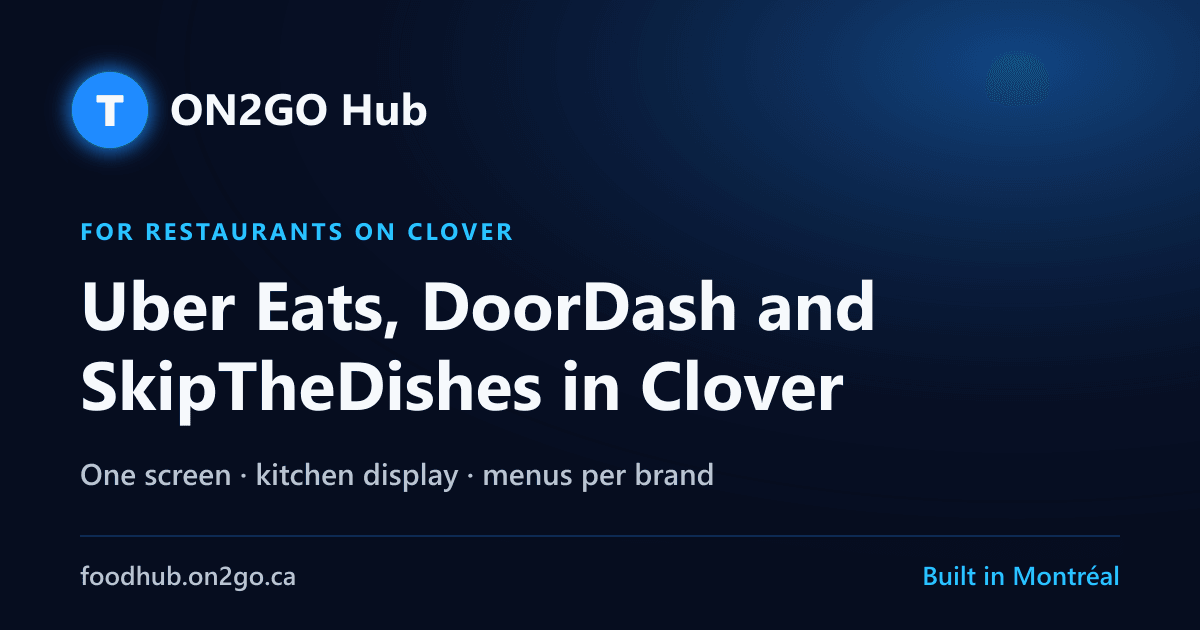
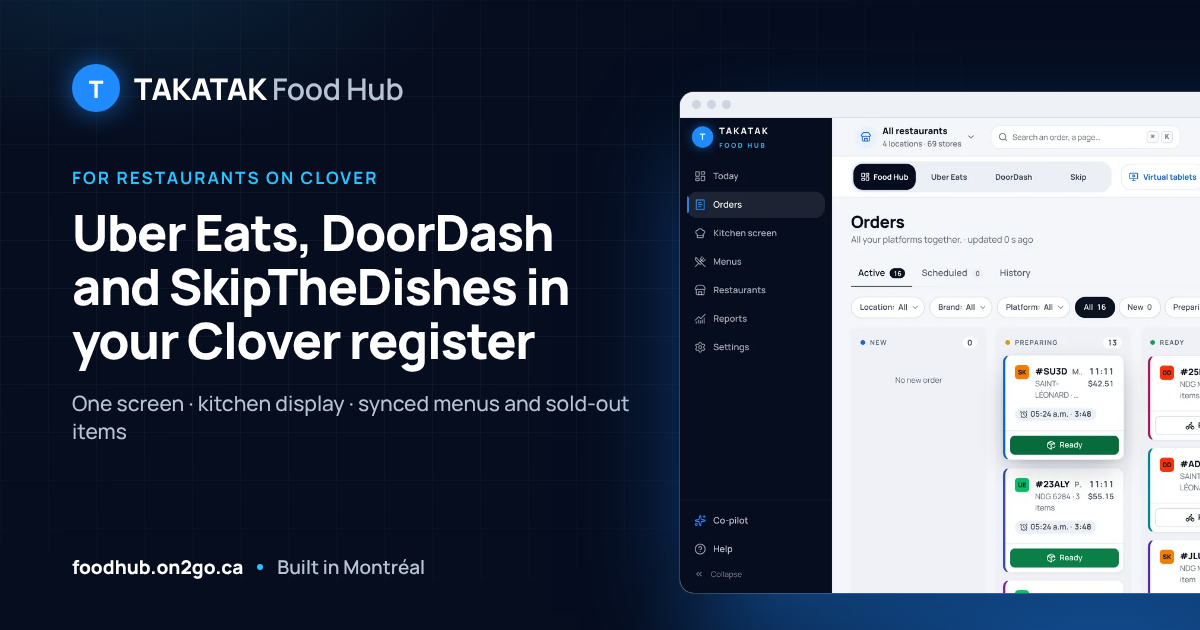
feat(hub): demo call to action, share images, indexable stills, docs and e2e for the TAKATAK Food Hub name
- Until the App Market link is live, the main button asks for a demo (pre-filled email to the support address, or
  the support page) with the review status under it: no button that does nothing, also on the pricing card.
- New share images (scripts/hub-og.mjs, the brand + the real orders board); /hub-media/ public, indexable, in
  robots.txt and cached a day; header sticky from 640 px only; footer names On2GO as the directory.
- Stills pipeline committed: scripts/hub-shots.mjs (demo server, guards refuse any email, Po Poulet, real phones)
  and scripts/hub-media.mjs.
- verify:foodhub, comments and docs (FOODHUB.md, PROGRESS.md) follow the TAKATAK Food Hub name.

Checks: typecheck, lint (0 errors), 2 091 tests, next build --webpack, verify:foodhub 644/644.

Claude-Session: https://claude.ai/code/session_01YAyd8px5aDq9UaUdzjASk5

diff --git a/components/public-hub/hub-page.tsx b/components/public-hub/hub-page.tsx
@@ -56,6 +56,36 @@ function MarketButton({ lang, ctx, large }: { lang: Lang; ctx: HubContext; large
   );
 }
 
+/** Where "ask for a demo" goes: a pre-filled email when the support address is set, else the support page. */
+function demoHref(lang: Lang, ctx: HubContext): string {
+  if (!ctx.supportEmail) return LEGAL_PATHS.support;
+  return `mailto:${ctx.supportEmail}?subject=${encodeURIComponent(HUB_UI[lang].demoSubject)}`;
+}
+
+/** The hero and closing buttons: the App Market listing once it is live; until then, a demo request (a real link,
+ * never a button that does nothing) with the review status written under it. */
+function Ctas({ lang, ctx, page, center }: { lang: Lang; ctx: HubContext; page: HubPageKey; center?: boolean }) {
+  const ui = HUB_UI[lang];
+  const secondary = 'inline-flex rounded-md border border-silver/40 px-5 py-3 font-bold text-white hover:border-white';
+  return (
+    <>
+      <div className={`mt-8 flex flex-wrap items-center gap-3 ${center ? 'justify-center' : ''}`}>
+        {ctx.appMarketUrl
+          ? <MarketButton lang={lang} ctx={ctx} large />
+          : <a href={demoHref(lang, ctx)} className="inline-flex rounded-md bg-electric px-5 py-3 text-base font-bold text-white shadow-[0_8px_30px_-8px_rgb(31_139_255/0.8)] hover:bg-brand">{ui.demoCta}</a>}
+        {page !== 'pricing'
+          ? <a href={HUB_PATHS.pricing[lang]} className={secondary}>{ui.seePricing}</a>
+          : ctx.appMarketUrl && <a href={demoHref(lang, ctx)} className={secondary}>{ui.demoCta}</a>}
+      </div>
+      {!ctx.appMarketUrl && (
+        <p className={`mt-3 flex items-center gap-2 text-[13px] font-semibold text-silver ${center ? 'justify-center' : ''}`}>
+          <span aria-hidden className="size-2 rounded-full bg-wait" />{ctx.marketStatus === 'review' ? ui.marketReview : ui.marketSoon}
+        </p>
+      )}
+    </>
+  );
+}
+
 function PricingBlock({ lang, ctx }: { lang: Lang; ctx: HubContext }) {
   const ui = HUB_UI[lang];
   return (
@@ -81,7 +111,9 @@ function PricingBlock({ lang, ctx }: { lang: Lang; ctx: HubContext }) {
       <p className="mt-3 text-[15px] text-ink-2"><b className="text-ink">{PHONE_APP_NAME}</b>{lang === 'fr' ? ' : ' : ': '}{PHONE_PRICING_STATEMENT[lang]}</p>
       <CloverAppBadges apps={ctx.cloverApps ?? []} lang={lang} />
       <div className="mt-5 flex flex-wrap items-center gap-3">
-        <MarketButton lang={lang} ctx={ctx} />
+        {ctx.appMarketUrl
+          ? <MarketButton lang={lang} ctx={ctx} />
+          : <a href={demoHref(lang, ctx)} className="inline-flex items-center rounded-md bg-brand px-4 py-2 text-sm font-bold text-white hover:bg-brand-2">{ui.demoCta}</a>}
         {!ctx.appMarketUrl && <span className="text-sm text-ink-3">{ctx.marketStatus === 'review' ? ui.marketReviewNote : ui.marketSoonNote}</span>}
       </div>
     </div>
@@ -196,14 +228,14 @@ export function HubPage({ page, lang, ctx }: { page: HubPageKey; lang: Lang; ctx
   return (
     <div lang={lang === 'fr' ? 'fr-CA' : 'en-CA'} className="min-h-dvh bg-canvas text-ink">
       <a href="#contenu" className="sr-only focus:not-sr-only focus:absolute focus:left-3 focus:top-3 focus:z-10 focus:rounded-md focus:bg-surface focus:px-3 focus:py-2">{ui.skip}</a>
-      <header className="sticky top-0 z-20 border-b border-white/10 bg-rail/95 text-white backdrop-blur supports-[backdrop-filter]:bg-rail/80">
+      <header className="z-20 border-b border-white/10 bg-rail/95 text-white backdrop-blur sm:sticky sm:top-0">
         <div className="mx-auto flex max-w-6xl flex-wrap items-center justify-between gap-3 px-4 py-3">
           <a href={home} className="flex items-center gap-2 text-lg font-extrabold tracking-tight">
             <TakatakMark size="sm" /><span>TAKATAK <span className="font-semibold text-silver">Food Hub</span></span>
           </a>
           <nav aria-label={ui.nav} className="flex flex-wrap items-center gap-4 text-sm font-semibold text-silver">
             <a href={`${home}#${lang === 'fr' ? 'produit' : 'product'}`} className="hidden hover:text-white sm:inline">{ui.product}</a>
-            <a href={`${home}#integrations`} className="hover:text-white">{ui.integrations}</a>
+            <a href={`${home}#integrations`} className="hidden hover:text-white sm:inline">{ui.integrations}</a>
             <a href={HUB_PATHS.pricing[lang]} className="hover:text-white">{ui.pricing}</a>
             <a href={HUB_PATHS[page][other]} hrefLang={other === 'fr' ? 'fr-CA' : 'en-CA'} lang={other === 'fr' ? 'fr-CA' : 'en-CA'} className="hover:text-white">{ui.otherLang}</a>
             <a href="/login" rel="nofollow" className="rounded-md border border-silver/40 px-3 py-1.5 text-white hover:border-white">{ui.signIn}</a>
@@ -230,12 +262,7 @@ export function HubPage({ page, lang, ctx }: { page: HubPageKey; lang: Lang; ctx
                 <p className="mt-4 inline-flex rounded-full bg-wait px-3 py-1 text-sm font-bold text-rail">{certification}</p>
               )}
               <p className={`mt-5 text-lg leading-relaxed text-silver ${isLanding ? 'mx-auto max-w-2xl sm:text-xl' : 'max-w-3xl'}`}>{fillHub(c.lead, lang, ctx)}</p>
-              <div className={`mt-8 flex flex-wrap items-center gap-3 ${isLanding ? 'justify-center' : ''}`}>
-                <MarketButton lang={lang} ctx={ctx} large />
-                {page !== 'pricing' && (
-                  <a href={HUB_PATHS.pricing[lang]} className="inline-flex rounded-md border border-silver/40 px-5 py-3 font-bold text-white hover:border-white">{ui.seePricing}</a>
-                )}
-              </div>
+              <Ctas lang={lang} ctx={ctx} page={page} center={isLanding} />
               {page === 'landing' && (
                 <div className="mt-8">
                   <p className="sr-only">{ui.platformsLabel}</p>
@@ -273,12 +300,10 @@ export function HubPage({ page, lang, ctx }: { page: HubPageKey; lang: Lang; ctx
             </Section>
           )}
 
-          <section aria-labelledby="cta-title" className="my-12 rounded-xl bg-rail px-6 py-10 text-white">
-            <h2 id="cta-title" className="text-2xl font-extrabold tracking-tight">{ui.ctaTitle}</h2>
-            <div className="mt-5 flex flex-wrap gap-3">
-              <MarketButton lang={lang} ctx={ctx} large />
-              <a href="/login" rel="nofollow" className="inline-flex rounded-md border border-silver/40 px-5 py-3 font-bold text-white hover:border-white">{ui.signIn}</a>
-            </div>
+          <section aria-labelledby="cta-title" className={`my-16 overflow-hidden rounded-2xl px-6 py-12 text-center text-white sm:px-12 ${landing.hero}`}>
+            <h2 id="cta-title" className="mx-auto max-w-2xl text-3xl font-extrabold tracking-tight">{ui.ctaTitle}</h2>
+            <p className="mx-auto mt-3 max-w-xl text-silver">{ui.ctaLead}</p>
+            <Ctas lang={lang} ctx={ctx} page={page} center />
           </section>
         </div>
       </main>
@@ -287,7 +312,7 @@ export function HubPage({ page, lang, ctx }: { page: HubPageKey; lang: Lang; ctx
         <div className="mx-auto flex max-w-6xl flex-col gap-3 px-4 py-8 text-[13px] text-ink-3 sm:flex-row sm:flex-wrap sm:justify-between">
           <div>
             <p className="font-bold text-ink">{HUB_NAME}</p>
-            <p>{ui.listingName} {ui.madeIn}</p>
+            <p>{ui.madeIn} {ui.footerOn2go} <a href="https://on2go.ca/" className="underline underline-offset-2 hover:text-ink">on2go.ca</a></p>
             <p>© {new Date().getFullYear()} {ctx.company} · {ctx.address}</p>
             {ctx.supportEmail && <p><a href={`mailto:${ctx.supportEmail}`} className="underline underline-offset-2">{ctx.supportEmail}</a></p>}
             <CloverAppBadges apps={ctx.cloverApps ?? []} lang={lang} variant="compact" className="mt-3" />

diff --git a/lib/foodhub/public-hub-content.ts b/lib/foodhub/public-hub-content.ts
@@ -141,7 +141,7 @@ export const HUB_CONTENT: Record<HubPageKey, Record<Lang, HubPageContent>> = {
       label: 'Accueil',
       eyebrow: 'Pour les restaurants qui utilisent Clover, au Canada',
       h1: 'Uber Eats, DoorDash et SkipTheDishes, directement dans votre caisse Clover',
-      lead: HUB_TAGLINE.fr,
+      lead: 'Un seul écran pour toutes vos plateformes, des menus et des ruptures synchronisés, et chaque versement comparé à vos commandes. Conçu à Montréal, utilisé chaque jour dans nos propres cuisines.',
       blocks: [
         { kind: 'steps', id: 'comment', title: 'En service en trois étapes', steps: STEPS.fr },
         { kind: 'features', id: 'fonctions', title: 'Toutes les fonctions', intro: 'Les mêmes fonctions que dans notre fiche du Clover App Market, sans agrégateur entre vous et les plateformes.', extra: [MULTI_BRAND.fr, PHONE_CARD.fr] },
@@ -166,7 +166,7 @@ export const HUB_CONTENT: Record<HubPageKey, Record<Lang, HubPageContent>> = {
       label: 'Home',
       eyebrow: 'For restaurants on Clover, in Canada',
       h1: 'Uber Eats, DoorDash and SkipTheDishes, straight into your Clover register',
-      lead: HUB_TAGLINE.en,
+      lead: 'One screen for every platform, synced menus and sold-out items, and every payout checked against your orders. Built in Montréal, used every day in our own kitchens.',
       blocks: [
         { kind: 'steps', id: 'how', title: 'Up and running in three steps', steps: STEPS.en },
         { kind: 'features', id: 'features', title: 'Every feature', intro: 'The same features as our Clover App Market listing, with no aggregator between you and the platforms.', extra: [MULTI_BRAND.en, PHONE_CARD.en] },
@@ -560,11 +560,14 @@ export const HUB_UI: Record<Lang, Record<string, string>> = {
     support: 'Soutien',
     privacy: 'Confidentialité',
     terms: 'Conditions',
-    listingName: 'Sur le Clover App Market : TAKATAK Food Hub.',
     madeIn: 'Conçu à Montréal.',
+    footerOn2go: 'Relié à On2GO, l’annuaire local de restaurants :',
     breadcrumb: 'Fil d’Ariane',
     nav: 'Navigation principale',
     ctaTitle: 'Toutes vos plateformes de livraison, une seule caisse Clover',
+    ctaLead: 'Montrez-nous votre cuisine : nous vous montrons vos commandes dans Clover, avec vos marques et vos succursales.',
+    demoCta: 'Demander une démo',
+    demoSubject: 'Démo TAKATAK Food Hub',
   },
   en: {
     skip: 'Skip to content',
@@ -598,11 +601,14 @@ export const HUB_UI: Record<Lang, Record<string, string>> = {
     support: 'Support',
     privacy: 'Privacy',
     terms: 'Terms',
-    listingName: 'On the Clover App Market: TAKATAK Food Hub.',
     madeIn: 'Built in Montréal.',
+    footerOn2go: 'Connected to On2GO, the local restaurant directory:',
     breadcrumb: 'Breadcrumb',
     nav: 'Main navigation',
     ctaTitle: 'All your delivery platforms, one Clover register',
+    ctaLead: 'Tell us about your kitchen: we show you your orders in Clover, with your brands and your locations.',
+    demoCta: 'Ask for a demo',
+    demoSubject: 'TAKATAK Food Hub demo',
   },
 };
 

diff --git a/tests/public-hub.test.ts b/tests/public-hub.test.ts
@@ -49,10 +49,10 @@ const unconditionalTgtg = (text: string) => [...text.matchAll(/Too Good To Go(?!
 
 describe('public site paths (lib/foodhub/public-site.ts)', () => {
   it('opens /hub, /en/hub, robots, sitemap, llms.txt, share images and the favicon — and nothing that merely looks alike', () => {
-    for (const p of ['/hub', '/hub/tarifs', '/hub/integrations/uber-eats-clover', '/en/hub', '/en/hub/pricing', '/robots.txt', '/sitemap.xml', '/llms.txt', '/favicon.ico', '/og/hub-fr.png']) {
+    for (const p of ['/hub', '/hub/tarifs', '/hub/integrations/uber-eats-clover', '/en/hub', '/en/hub/pricing', '/robots.txt', '/sitemap.xml', '/llms.txt', '/favicon.ico', '/og/hub-fr.png', '/hub-media/orders-fr-1280.webp']) {
       expect(isPublicSitePath(p), p).toBe(true);
     }
-    for (const p of ['/hubx', '/hub-admin', '/en/hubx', '/en', '/', '/orders', '/robots.txt/x', '/llms.txtx', '/sitemap.xml.bak', '/ogx']) {
+    for (const p of ['/hubx', '/hub-admin', '/en/hubx', '/en', '/', '/orders', '/robots.txt/x', '/llms.txtx', '/sitemap.xml.bak', '/ogx', '/hub-mediax/a.webp']) {
       expect(isPublicSitePath(p), p).toBe(false);
     }
     expect(publicSiteLang('/hub/tarifs')).toBe('fr');
@@ -91,7 +91,7 @@ describe('proxy.ts with a sign-in configured', () => {
       expect(res.headers.get('x-robots-tag'), path).toBeNull();
       expect(res.headers.get('cache-control'), path).toBe(PUBLIC_PAGE_CACHE); // same HTML for everyone: cacheable
     }
-    for (const path of ['/robots.txt', '/sitemap.xml', '/llms.txt', '/og/hub-fr.png', '/icons/icon-512.png', '/icons/icon-192.png', '/icons/apple-touch-icon.png', '/media/abc123.jpg']) {
+    for (const path of ['/robots.txt', '/sitemap.xml', '/llms.txt', '/og/hub-fr.png', '/hub-media/kitchen-en-768.webp', '/icons/icon-512.png', '/icons/icon-192.png', '/icons/apple-touch-icon.png', '/media/abc123.jpg']) {
       const res = await get(path);
       expect(res.headers.get('x-middleware-next'), path).toBe('1');
       expect(res.headers.get('x-robots-tag'), path).toBeNull();

diff --git a/proxy.ts b/proxy.ts
@@ -48,7 +48,7 @@ const PUBLIC_PATHS = new Set([
   '/courier', '/api/courier', // our couriers' page: the personal signed link (Bearer) is the credential (lib/foodhub/delivery/courier-app.ts)
 ]);
 
-// The public ON2GO.ca hub site (/hub, /en/hub, robots.txt, sitemap.xml, llms.txt, /og/, favicon) is open to everyone and
+// The public TAKATAK Food Hub site (/hub, /en/hub, robots.txt, sitemap.xml, llms.txt, /og/, /hub-media/, favicon) is open to everyone and
 // indexable, like the legal pages; every other response says "noindex" (lib/foodhub/public-site.ts).
 export async function proxy(req: NextRequest) {
   const res = await gate(req);
@@ -98,7 +98,7 @@ async function gate(req: NextRequest) {
   }
   const to = req.nextUrl.clone();
   const isTablet = Boolean(await verifyDevice(readCookie(req.headers.get('cookie'), DEVICE_COOKIE)));
-  // An anonymous visitor on the bare address sees the public ON2GO.ca hub page (with its "Sign in" button); tablets keep
+  // An anonymous visitor on the bare address sees the public TAKATAK Food Hub page (with its "Sign in" button); tablets keep
   // their PIN screen, and FOODHUB_PUBLIC_HOME=off restores /login. The query string (?fbclid=, utm_…) goes along: a
   // shared link to the root must land on /hub, not on /login?next=… . The redirect stays temporary (307): a permanent
   // one would be cached by browsers and send a signed-in owner's "/" (the console) to /hub. Public links always point

diff --git a/lib/foodhub/public-site.ts b/lib/foodhub/public-site.ts
@@ -1,5 +1,5 @@
 // The public, indexable part of foodhub.on2go.ca: the ON2GO.ca pages (/hub in French, /en/hub in English), robots.txt,
-// sitemap.xml, llms.txt, the share images (/og/) and the favicon. Everything else stays behind the sign-in (proxy.ts)
+// sitemap.xml, llms.txt, the share images (/og/), the landing's console stills (/hub-media/) and the favicon. Everything else stays behind the sign-in (proxy.ts)
 // and carries "X-Robots-Tag: noindex" so the console never lands in a search engine, even through a stray link.
 // No imports: proxy.ts loads this file on every request.
 
@@ -22,7 +22,7 @@ export function publicSiteLang(pathname: string): PublicLang | null {
 
 /** Reachable without a sign-in. "/hubx" or "/hub-admin" are not: the match is exact or on "/hub/". */
 export function isPublicSitePath(pathname: string): boolean {
-  return publicSiteLang(pathname) !== null || PUBLIC_SITE_FILES.has(pathname) || pathname.startsWith('/og/');
+  return publicSiteLang(pathname) !== null || PUBLIC_SITE_FILES.has(pathname) || pathname.startsWith('/og/') || pathname.startsWith('/hub-media/');
 }
 
 /** A storefront ordering page or its sitemap (/commander/<slug>, /commander/sitemap.xml: lib/foodhub/storefront/seo.ts),

diff --git a/app/en/hub/[[...slug]]/page.tsx b/app/en/hub/[[...slug]]/page.tsx
@@ -3,7 +3,7 @@ import { notFound } from 'next/navigation';
 import { HubPage } from '@/components/public-hub/hub-page';
 import { hubContext, hubMetadata, hubPageForSlug } from '@/lib/foodhub/public-hub';
 
-// Public ON2GO.ca pages, English (/en/hub/…): open without a sign-in (proxy.ts, lib/foodhub/public-site.ts).
+// Public TAKATAK Food Hub pages, English (/en/hub/…): open without a sign-in (proxy.ts, lib/foodhub/public-site.ts).
 // Rendered per request: the App Market link and the base URL are server variables (no rebuild to change them).
 export const dynamic = 'force-dynamic';
 

diff --git a/app/hub/[[...slug]]/page.tsx b/app/hub/[[...slug]]/page.tsx
@@ -3,7 +3,7 @@ import { notFound } from 'next/navigation';
 import { HubPage } from '@/components/public-hub/hub-page';
 import { hubContext, hubMetadata, hubPageForSlug } from '@/lib/foodhub/public-hub';
 
-// Public ON2GO.ca pages, French (/hub/…): open without a sign-in (proxy.ts, lib/foodhub/public-site.ts).
+// Public TAKATAK Food Hub pages, French (/hub/…): open without a sign-in (proxy.ts, lib/foodhub/public-site.ts).
 // Rendered per request: the App Market link and the base URL are server variables (no rebuild to change them).
 export const dynamic = 'force-dynamic';
 

diff --git a/lib/foodhub/public-hub.ts b/lib/foodhub/public-hub.ts
@@ -335,7 +335,7 @@ export function hubRobots(base = hubBase()) {
   return {
     rules: [{
       userAgent: '*',
-      allow: ['/hub', '/en/hub', '/legal/', '/commander/', '/llms.txt', '/og/', '/icons/'],
+      allow: ['/hub', '/en/hub', '/legal/', '/commander/', '/llms.txt', '/og/', '/hub-media/', '/icons/'],
       disallow: ['/api/'],
     }],
     // The storefront ordering pages have their own sitemap (app/commander/sitemap.xml, lib/foodhub/storefront/seo.ts).

diff --git a/app/sitemap.ts b/app/sitemap.ts
@@ -1,7 +1,7 @@
 import type { MetadataRoute } from 'next';
 import { hubSitemap } from '@/lib/foodhub/public-hub';
 
-// sitemap.xml: the ON2GO.ca pages in French and English (with their language links) and the 3 legal pages.
+// sitemap.xml: the TAKATAK Food Hub pages in French and English (with their language links) and the 3 legal pages.
 // No lastModified: a made-up date would only teach crawlers to ignore it.
 export const dynamic = 'force-dynamic';
 

diff --git a/app/llms.txt/route.ts b/app/llms.txt/route.ts
@@ -1,6 +1,6 @@
 import { hubLlmsTxt } from '@/lib/foodhub/public-hub';
 
-// /llms.txt: a plain-text summary of ON2GO.ca for AI assistants (French, then English). Public facts only.
+// /llms.txt: a plain-text summary of TAKATAK Food Hub for AI assistants (French, then English). Public facts only.
 export const dynamic = 'force-dynamic';
 
 export function GET() {

diff --git a/docs/FOODHUB.md b/docs/FOODHUB.md
@@ -204,19 +204,22 @@ Finance covers every location's money, so it is only for logins that see all loc
 
 | Address | What | Sign-in |
 | --- | --- | --- |
-| `/hub`, `/en/hub` | ON2GO.ca landing (French first, English twin) | none |
+| `/hub`, `/en/hub` | TAKATAK Food Hub landing (French first, English twin), built around real console stills | none |
 | `/hub/tarifs`, `/en/hub/pricing` | Pricing: 14-day free trial, then CAD $50/month per app; TAKATAK Food Hub extra brand CAD $15 per platform per month; TAKATAK Phone AI + CAD $0.25 per AI minute; plus taxes, billed by Clover (`lib/foodhub/pricing.ts`, numbers from `pos/clover-pricing.ts`) | none |
 | `/hub/integrations/{uber-eats,doordash,skipthedishes}-clover` (+ `/en/…`) | One page per platform integration; noindex and out of the sitemap / llms.txt until the platform is in `FOODHUB_PUBLIC_LIVE_PLATFORMS` | none |
 | `/hub/ecran-de-cuisine-clover`, `/en/hub/clover-kitchen-display` | Kitchen display | none |
 | `/hub/telephone-ia-restaurant`, `/en/hub/ai-phone-for-restaurants` | TAKATAK Phone AI, the separate Clover app (automated assistant, press 0, its own price) | none |
 | `/robots.txt`, `/sitemap.xml`, `/llms.txt`, `/og/*`, `/favicon.ico` | Crawlers, AI assistants, share images | none |
+| `/hub-media/*` | The landing's console stills (WebP, `scripts/hub-shots.mjs` → `scripts/hub-media.mjs`): indexable, cached a day | none |
 | `/legal/*` | Privacy, terms, support: `noindex, follow` while drafts; indexable, in the sitemap and llms.txt once `FOODHUB_LEGAL_APPROVED=true` | none |
 | `/icons/*` | App icons; the Organization logo (`icon-512.png`) must be indexable | none |
 | `/media/*` | Menu photos (also shown on on2go.ca through the directory feed): indexable, so they can appear in image search | none |
 | `/commander/<slug>`, `/commander/sitemap.xml` | Storefront ordering pages (docs/STOREFRONT.md): indexable, listed in robots.txt with their own sitemap; `/commander/<slug>/suivi/…` stays noindex | none |
 
-- Name: the hub is "ON2GO.ca" (owner, 2026-10-17); the Clover App Market names stay "TAKATAK Food Hub" and
-  "TAKATAK Phone AI". Words: `lib/foodhub/public-hub-content.ts`; product facts reused from the Clover App Market listing
+- Name: the public site says **TAKATAK Food Hub**, its Clover App Market name (owner's positioning of 2026-11-09,
+  `docs/POSITIONNEMENT_ON2GO_FOODHUB.md`, which replaces the "ON2GO.ca" name of 2026-10-17): On2GO is only the local
+  restaurant directory Food Hub connects to. The phone app stays "TAKATAK Phone AI". Words: `lib/foodhub/public-hub-content.ts`
+  and the landing tour `lib/foodhub/public-hub-tour.ts` (every sentence matches its still or the listing); product facts reused from the Clover App Market listing
   (`lib/foodhub/clover-listing.ts`). Only shipped features; no hours claims, no aggregator names (`tests/public-hub.test.ts`).
   Prices are built from `lib/foodhub/pricing.ts`, the legal name from `FOODHUB_LEGAL_COMPANY`. Too Good To Go is only
   named with its condition ("when your account offers an order feed"), never in the tagline. Each shared FAQ question

diff --git a/docs/PROGRESS.md b/docs/PROGRESS.md
@@ -1,5 +1,29 @@
 # Food Hub: progress log and task board
 
+## 2026-11-18 — Public site v2: TAKATAK Food Hub, real console stills, SEO (`claude/busy-cannon-5spy86`)
+
+- Owner (2026-11-18): the public site must be professional and sellable. Live /hub still said "ON2GO.ca" (and its share
+  image "ON2GO Hub"); its hero was a drawn mockup and several sections said the same thing twice.
+- **Brand** per docs/POSITIONNEMENT_ON2GO_FOODHUB.md (2026-11-09, replaces the "ON2GO.ca" name of 2026-10-17): every
+  public page, title, FAQ, JSON-LD and llms.txt says **TAKATAK Food Hub**; On2GO appears only as the local restaurant
+  directory Food Hub connects to (Montréal section, footer, a landing FAQ). Titles end with "| TAKATAK Food Hub" (≤ 60).
+- **Landing** rebuilt around real stills of the console (local demo build, fictional data, Po Poulet off):
+  orders board (hero), kitchen screen + new-order pop-up, Today, Sales and trends, the pickup ordering page.
+  Words: `lib/foodhub/public-hub-tour.ts`; component: `components/public-hub/landing-tour.tsx`. Removed: the drawn
+  device, sparkles, motion toggle and the duplicate showcase sections (`landing-showcase.tsx`, `public-hub-showcase.ts`).
+- **Calls to action**: until the App Market link is set, "Demander une démo" opens a pre-filled email to the support
+  address (support page when none); the review status sits under it. Never a button that does nothing.
+- **SEO**: new descriptions (FR-CA / EN-CA) with the three platforms; SoftwareApplication gets `screenshot`
+  ImageObjects; Organization is TAKATAK; new share images (`scripts/hub-og.mjs` → public/og/hub-{fr,en}.png);
+  `/hub-media/` is public, indexable, in robots.txt, cached a day (next.config.mjs headers).
+- Stills pipeline: `scripts/hub-shots.mjs` (needs the promo-reels demo server, PR #140) → `scripts/hub-media.mjs`
+  (WebP 1280/768, ~800 KB for all 22 files) → `public/hub-media/`.
+- Tests: `tests/public-hub.test.ts` (rebrand, screenshots in JSON-LD, /hub-media public), new
+  `tests/public-hub-tour.test.ts` (files on disk, alts, sizes, lazy/eager, banned words, static CSS).
+- Seen while capturing (not fixed here): on /insights in English, money shows French formatting ("829,25 $").
+
+— signé : Claude (busy-cannon, Claude Code cloud) @ cloud · 2026-11-18
+
 ## 2026-11-05 — DoorDash store list: the 5 missing businesses (24 stores) added (`fix/doordash-store-list`)
 
 - Read in the DoorDash merchant portal (owner signed in himself, read-only): the group has 19 businesses; 5 had no store
